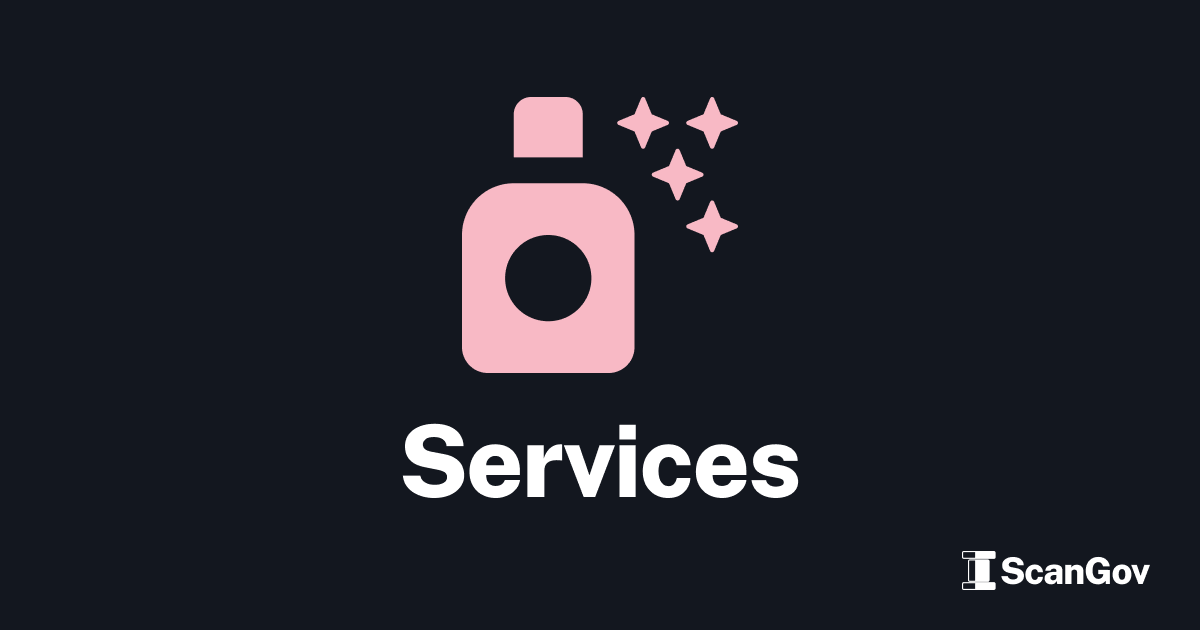
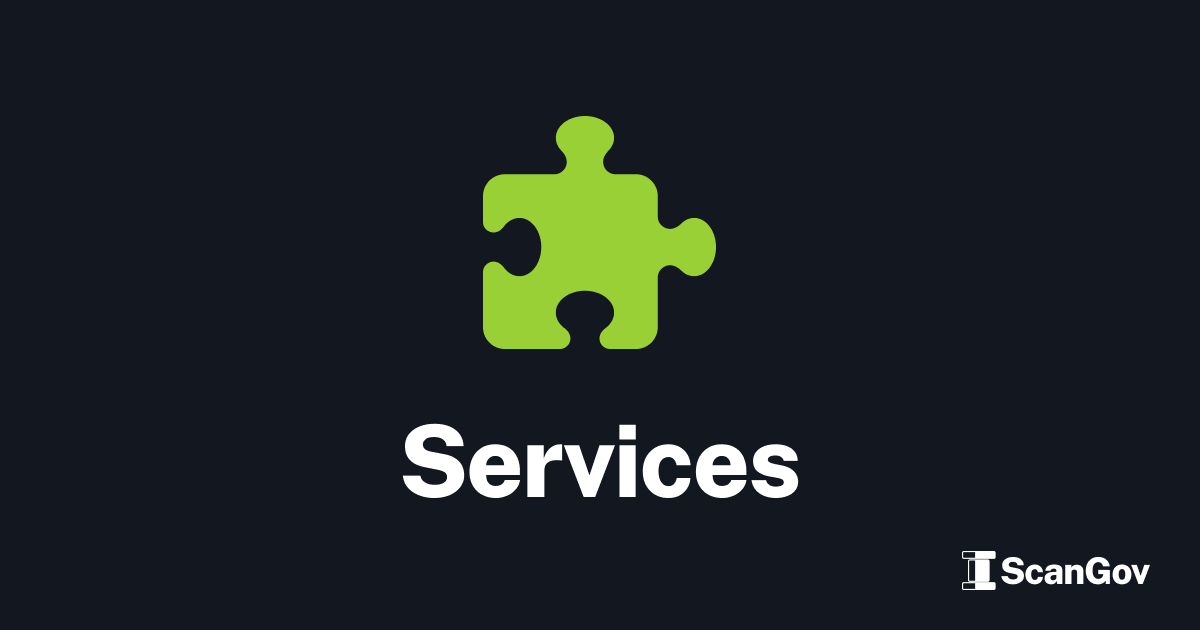
Update services

Changed region(s): [[0.37, 0.1508, 0.6167, 0.6032]]

diff --git a/content/index.html b/content/index.html
@@ -69,32 +69,6 @@ home: true
     </div>
   </div>
 </div>
-<div class="container border-bottom mb-5 pb-5">
-  <div class="row">
-    <div class="col-12">
-      <h2 class="mb-3">Plans</h2>
-    </div>
-  </div>
-  {% include "plans.html" %}
-</div>
-<!--
-  <div class="container border-bottom mb-5 pb-5">  <div class="row">    <div class="col-12">      <h2 class="mb-3">Services</h2>      <p class="lead">We're here to support you on your government digital experience journey.</p>      <div class="card-group">        {% for item in services %}          <div class="col-12 col-sm-12 col-md-6 col-lg-6 col-xl-6 d-flex align-items-stretch">            <div class="card m-1">              <div class="card-header">                <h3 class="my-2 h4">{{ item.title }}</h3></div><div class="card-body pt-4 text-center"><iclass="{{ item.icon }} fa-3x mt-2"aria-label="hidden"style="color: {{ item.color }}"></i><ul class="list-unstyled mt-3 mb-3">{% for check in item.checks %}<li class="fs-5 mb-2"><i class="fa-solid fa-check" aria-label="hidden"></i>{{ check }}</li>{% endfor %}</ul></div>{% if item.cta-url %}<div class="card-footer"><a href="{{ item.cta-url }}" class="w-100 btn btn-lg btn-primary">{{ item.cta-text }}</a></div>{% endif %}</div></div>{% endfor %}</div></div></div></div>
--->
-<div class="container border-bottom mb-5 pb-5">
-  <div class="row">
-    <div class="col-12">
-      <h2 class="mb-3">Guidance</h2>
-      <p class="lead">Public policy, web protocol, guidelines and best practices used to develop the ScanGov Standards.</p>
-      {% set standards_list = guidance %}
-      {% set standards_list_type = "guidance" %}
-      {% include "standards_list.html" %}
-      <p class="small mt-3">
-        <a href="https://standards.scangov.org/guidance/">Guidance</a>
-      </p>
-    </div>
-  </div>
-</div>
-
 <div class="container border-bottom mb-5 pb-5 pt-3">
   <div class="row">
     <div class="col-12">
@@ -127,8 +101,28 @@ home: true
     </div>
   </div>
 </div>
-{% if quotes %}
-  <div class="container border-bottom mb-5 pb-5">
+<div class="container">
+  <div class="row">
+    <div class="col-12">
+      <h2 class="mb-3">Plans</h2>
+    </div>
+  </div>
+  {% include "plans.html" %}
+</div><!--
+  <div class="container border-bottom mb-5 pb-5">  <div class="row">    <div class="col-12">      <h2 class="mb-3">Services</h2>      <p class="lead">We're here to support you on your government digital experience journey.</p>      <div class="card-group">        {% for item in services %}          <div class="col-12 col-sm-12 col-md-6 col-lg-6 col-xl-6 d-flex align-items-stretch">            <div class="card m-1">              <div class="card-header">                <h3 class="my-2 h4">{{ item.title }}</h3></div><div class="card-body pt-4 text-center"><iclass="{{ item.icon }} fa-3x mt-2"aria-label="hidden"style="color: {{ item.color }}"></i><ul class="list-unstyled mt-3 mb-3">{% for check in item.checks %}<li class="fs-5 mb-2"><i class="fa-solid fa-check" aria-label="hidden"></i>{{ check }}</li>{% endfor %}</ul></div>{% if item.cta-url %}<div class="card-footer"><a href="{{ item.cta-url }}" class="w-100 btn btn-lg btn-primary">{{ item.cta-text }}</a></div>{% endif %}</div></div>{% endfor %}</div></div></div></div><div class="container border-bottom mb-5 pb-5">  <div class="row">
+    <div class="col-12">
+      <h2 class="mb-3">Guidance</h2>
+      <p class="lead">Public policy, web protocol, guidelines and best practices used to develop the ScanGov Standards.</p>
+      {% set standards_list = guidance %}
+      {% set standards_list_type = "guidance" %}
+      {% include "standards_list.html" %}
+      <p class="small mt-3">
+        <a href="https://standards.scangov.org/guidance/">Guidance</a>
+      </p>
+    </div>
+  </div>
+</div>
+  {% if quotes %}  <div class="container border-bottom mb-5 pb-5">
     <div class="row">
       <div class="col-12">
         <h2 class="mb-3">What they say</h2>
@@ -164,8 +158,7 @@ home: true
     </div>
   </div>
 {% endif %}
-<div class="container border-bottom mb-5 pb-5">
-  <div class="row">
+  <div class="container border-bottom mb-5 pb-5">  <div class="row">
     <div class="col-12">
       <h2 class="mb-3">News</h2>
       <p class="lead">ScanGov updates.</p>
@@ -192,8 +185,7 @@ home: true
     </div>
   </div>
 </div>
-<div class="container border-bottom mb-5 pb-5">
-  <div class="row">
+  <div class="container border-bottom mb-5 pb-5">  <div class="row">
     <div class="col-12">
       <h2 class="mb-3">Press</h2>
       <p class="lead">ScanGov in the news.</p>
@@ -222,12 +214,5 @@ home: true
       </p>
     </div>
   </div>
-</div>
-<div class="container">
-  <div class="row">
-    <div class="col-12">
-      <h2 class="mb-4">Questions?</h2>
-      <a href="https://docs.google.com/forms/d/e/1FAIpQLSeKiSG0f07leAwW1QqIMSoDIgTA92m0jVy6NADtiaoPhg4rww/viewform" class="btn btn-primary btn-lg">Contact us</a>
-    </div>
-  </div>
+-->
 </div>

diff --git a/public/css/scangov.css b/public/css/scangov.css
@@ -325,6 +325,10 @@ h6,
     color: #fff5c2;
 }
 
+.fa-puzzle-piece {
+    color: #98D035;
+}
+
 .fa-ranking-star {
     color: #83fcd4;
 }
@@ -426,37 +430,37 @@ h6,
 .btn-primary,
 a.btn-primary,
 a.btn-primary:visited {
-  background-color: var(--bs-link-color);
-  color: var(--bs-body-bg);
-  border-radius: var(--bs-border-radius);
-  border: 1px solid var(--bs-border-color);
-  box-shadow: var(--bs-card-shadow);
-  cursor: pointer;
-  font-family: var(--bs-font-bold);
-  padding: 0.55rem;
+    background-color: var(--bs-link-color);
+    color: var(--bs-body-bg);
+    border-radius: var(--bs-border-radius);
+    border: 1px solid var(--bs-border-color);
+    box-shadow: var(--bs-card-shadow);
+    cursor: pointer;
+    font-family: var(--bs-font-bold);
+    padding: 0.55rem;
 }
 
 a.btn-primary-outline {
-  background-color: var(--bs-body-bg);
-  color: var(--bs-body-color);
-  border-radius: var(--bs-border-radius-sm);
-  border: 1px solid var(--bs-border-color);
-  box-shadow: var(--bs-card-shadow);
-  cursor: pointer;
-  font-family: var(--bs-font-sans-serif);
-  padding: 0.55rem;
+    background-color: var(--bs-body-bg);
+    color: var(--bs-body-color);
+    border-radius: var(--bs-border-radius-sm);
+    border: 1px solid var(--bs-border-color);
+    box-shadow: var(--bs-card-shadow);
+    cursor: pointer;
+    font-family: var(--bs-font-sans-serif);
+    padding: 0.55rem;
 }
 
 .btn-primary-outline:not(.active):hover,
 a.btn-primary-outline:not(.active):hover {
-  background-color: var(--bs-btn-bg)!important;
-  color: var(--bs-body-bg);
-  border: 1px solid var(--bs-border-color);
-  box-shadow: var(--bs-box-shadow-md)!important
+    background-color: var(--bs-btn-bg) !important;
+    color: var(--bs-body-bg);
+    border: 1px solid var(--bs-border-color);
+    box-shadow: var(--bs-box-shadow-md) !important
 }
 
 a.btn:not(.active):hover svg, .nav-link:not(.active):hover svg {
-  color: var(--bs-link-color) !important;
+    color: var(--bs-link-color) !important;
 }
 
 /* Cards */

diff --git a/_includes/footer.html b/_includes/footer.html
@@ -1,5 +1,28 @@
-<div class="container">
-  <footer class="mt-5 pt-5 border-top">
+<footer>
+  <!--
+    <div class="container mt-5 pt-5 border-top">  <div class="row">
+      <div class="col-12">
+        <h2 class="mb-4">Start scanning ...</h2>
+        <a
+          href="/demo"
+          id=""
+          aria-label="Schedule demo"
+          class="btn btn-primary btn-lg shadow-md">
+          Schedule demo
+        </a>
+        &nbsp;
+        <a
+          href="/plans"
+          id=""
+          aria-label="Get started"
+          class="btn btn-primary btn-lg shadow-md">
+          Get started
+        </a>
+      </div>
+    </div>
+  </div>
+  -->
+  <div class="container mt-5 pt-5 border-top">
     <div class="row">
       {% for col in nav_footer %}
         <div class="col-6 col-sm-6 col-md-3 mb-3">
@@ -19,26 +42,9 @@
         2025
       </p>
     </div>
-  </footer>
-</div>
-<div id="feedback-container" class="text-center">
-  <a
-    href="/plans"
-    id="feedback-button"
-    aria-label="Get started"
-    class="feedback btn btn-lg">
-    Get started
-  </a>
-</div>
+  </div>
+</footer>
 <script>
-  const feedbackButton = document.getElementById("feedback-button");
-  window.addEventListener('scroll', () => {
-    if (document.documentElement.scrollTop > window.innerHeight * .3) 
-      feedbackButton.style.opacity = '1';
-    else
-      feedbackButton.style.opacity = '0';
-  });
-
   document.querySelector('button.navbar-toggler').addEventListener('click',function(e) {
     let el = document.querySelector(this.dataset.target);
     console.log(el)

diff --git a/content/services.html b/content/services.html
@@ -31,9 +31,10 @@ type: Organization
                     <li>{{ output }}</li>
                   {% endfor %}
                 </ul>
-                {% if service.additionalProperty %}
-                <p class="card-text border-top mt-4 mb-2 pt-3">Duration: {{ service.additionalProperty.value }}</p>
-                {% endif %}
+              <!--
+                {% if service.additionalProperty %}<p class="card-text border-top mt-4 mb-2 pt-3">Duration: {{ service.additionalProperty.value }}</p>
+              {% endif %}
+              -->
               </div>
             </div>
             <div class="card-footer">

diff --git a/_includes/jumbotron.html b/_includes/jumbotron.html
@@ -18,6 +18,14 @@
           </div>
           {% if description %}
             <p class="lead mb-4">{{ description }}</p>
+            <a
+              href="/demo"
+              id=""
+              aria-label="Schedule demo"
+              class="btn btn-primary btn-lg shadow-md">
+              Schedule demo
+            </a>
+            &nbsp;
             <a href="https://scangov.com/plans" class="btn btn-primary btn-lg shadow-md">Get started</a>
           {% endif %}
         </div>
